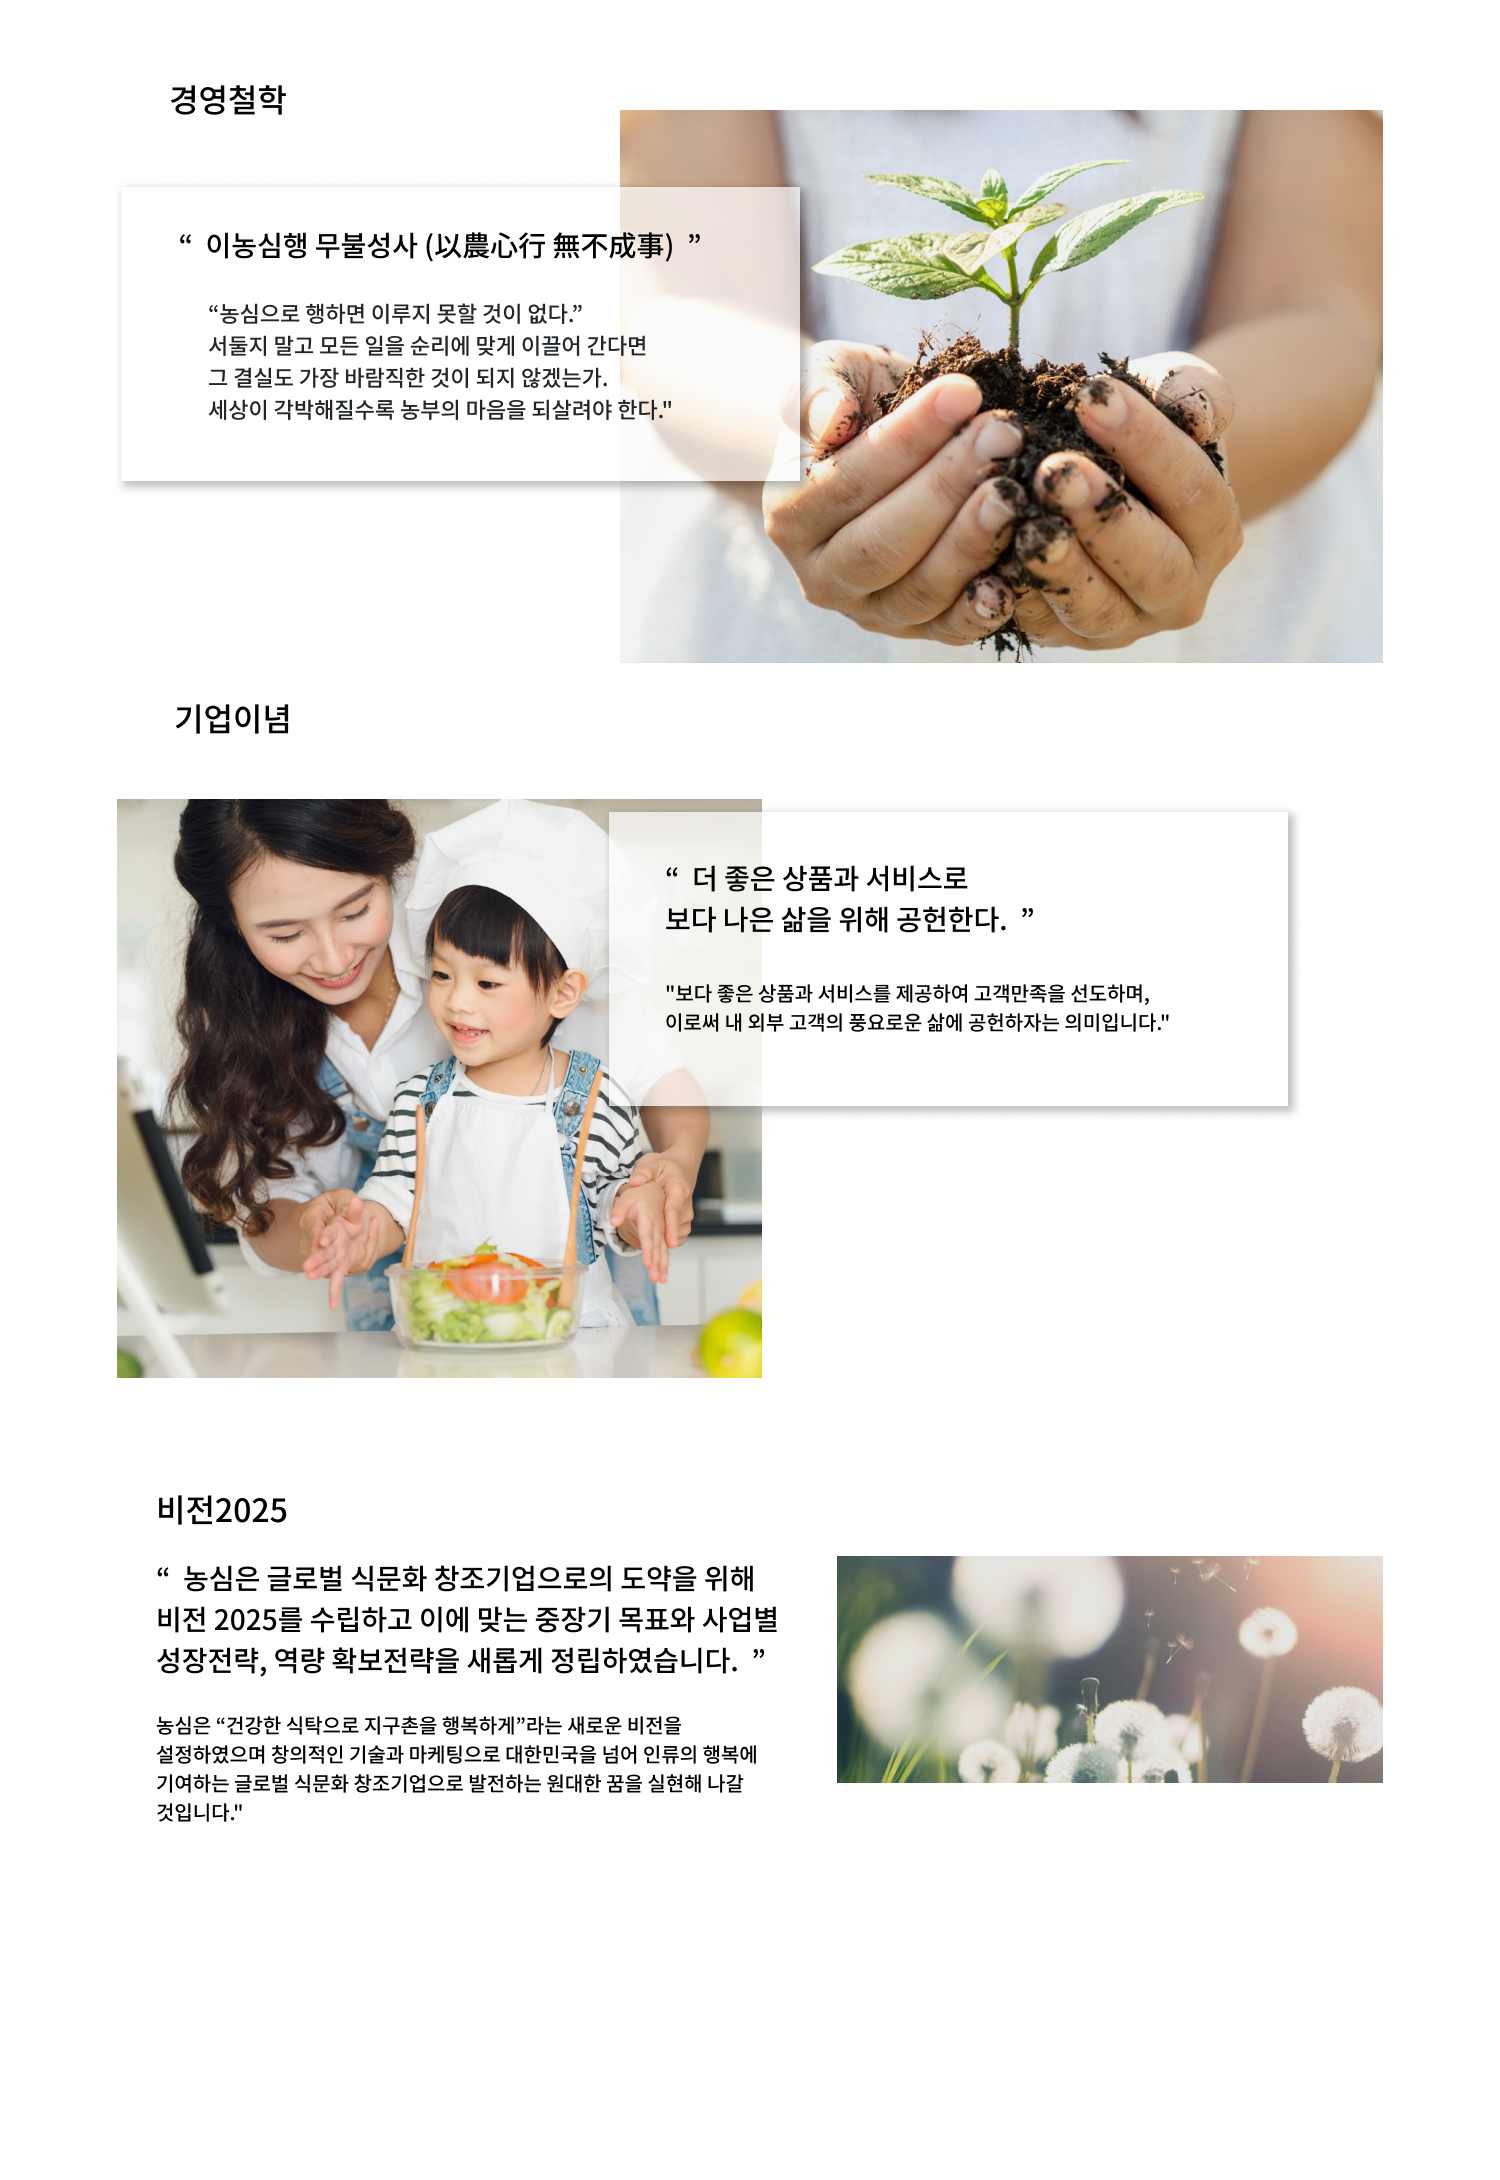
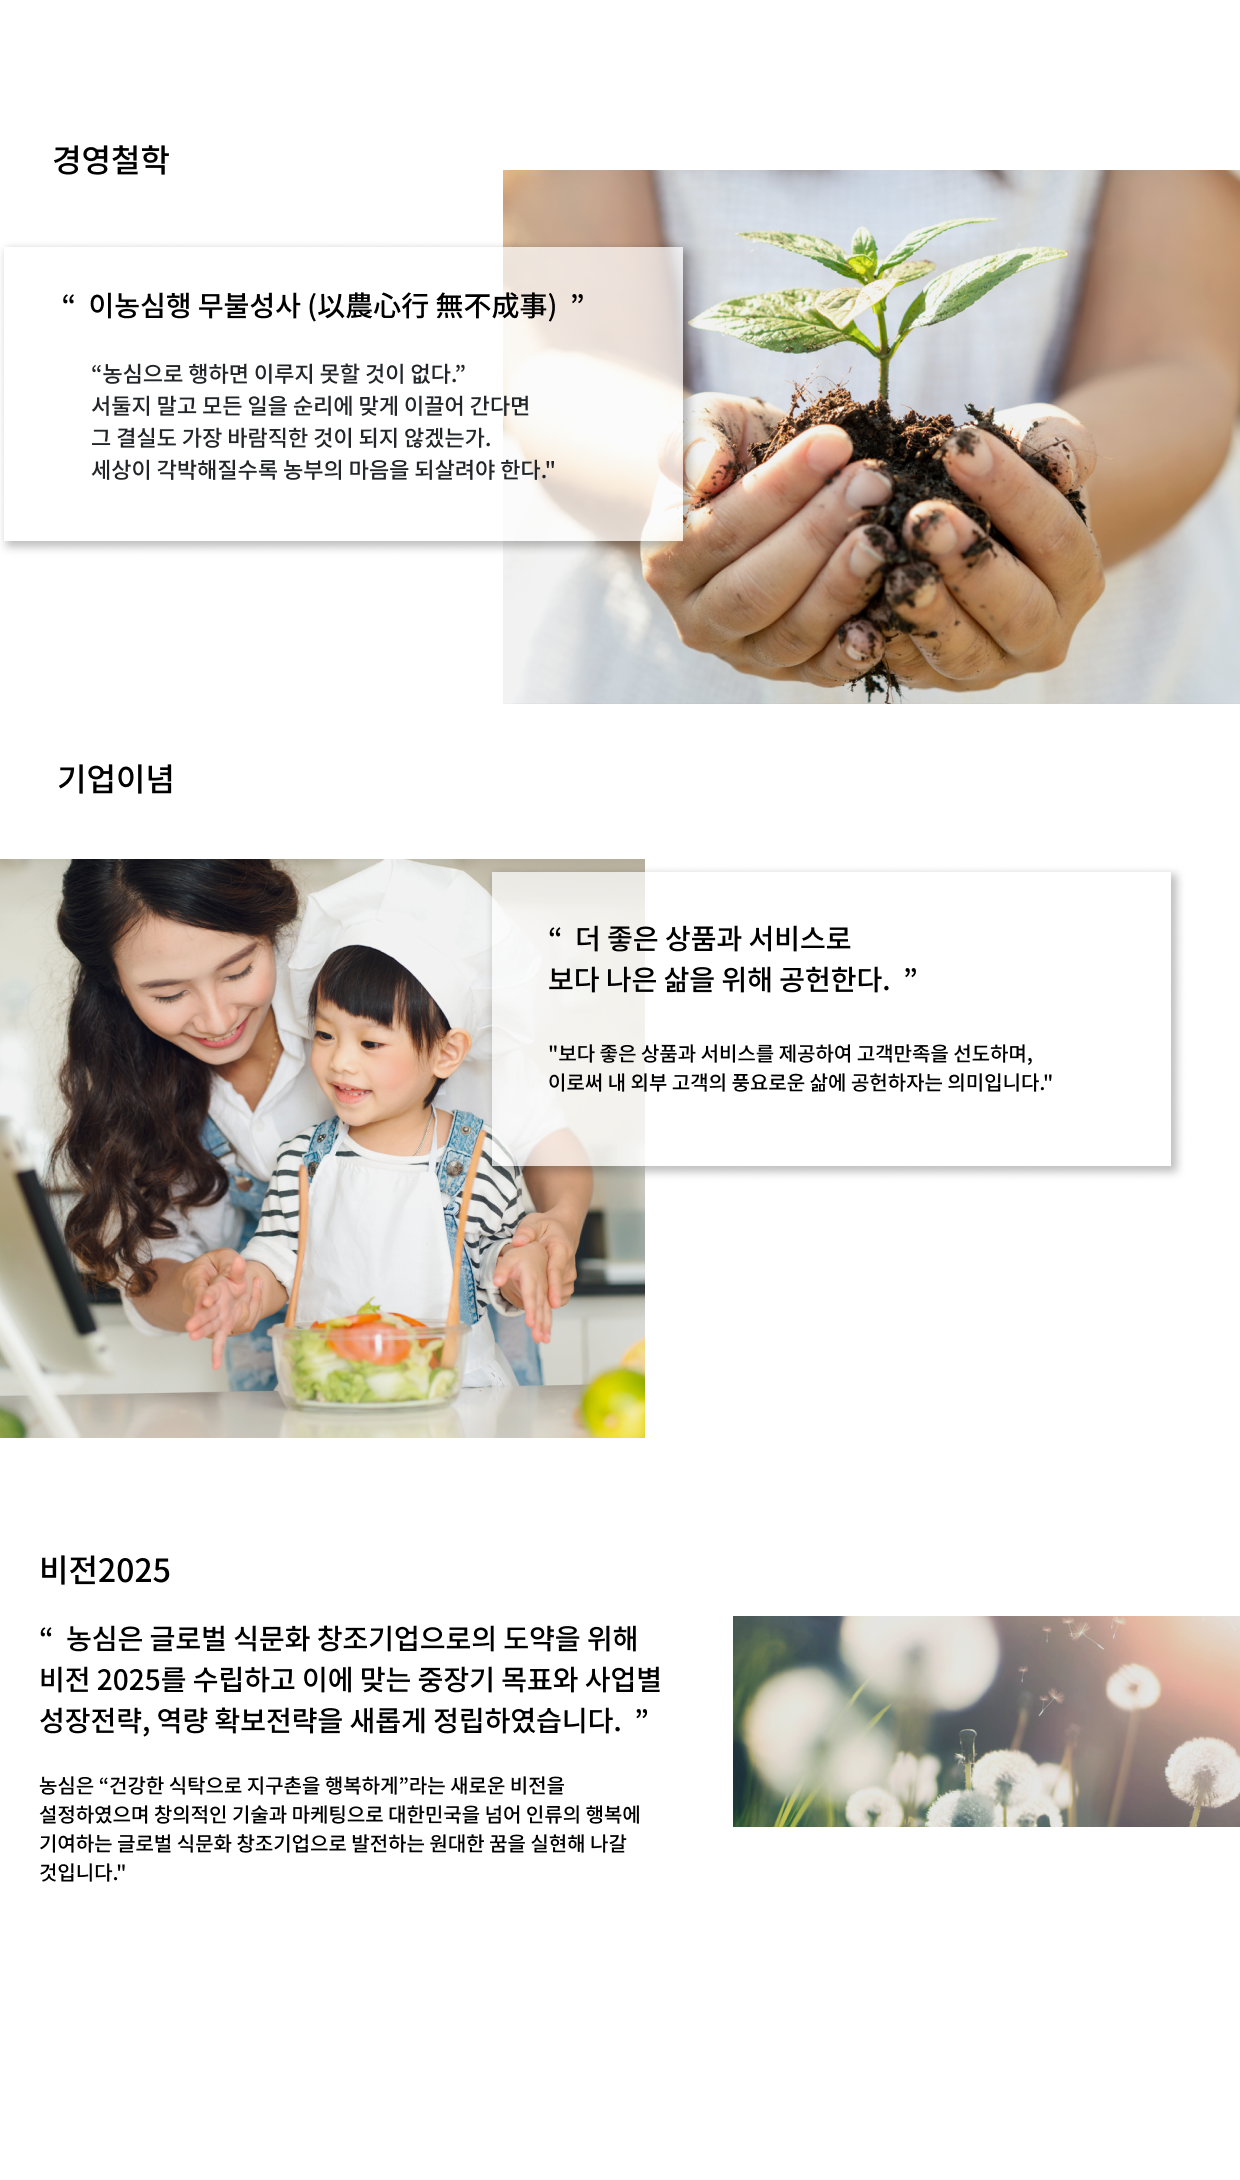
company v7

diff --git a/04company/css/mobile.css b/04company/css/mobile.css
@@ -43,11 +43,46 @@
 
     /* visual */
     .visualWrap{height: 85vh;}
+    .visualWrap .sImg{height: 85vh;min-height: initial;}
+    .visualWrap .bx-wrapper .bx-pager{bottom:10px}
+    .visualWrap .txtBody{text-align: left;transform: translateY(0);}
+    .visualWrap .bx-controls{display: none;}
+
+    /* content */
+    .contents{margin-top: 0;width: 100%;}
+    .contents>ul>li{height: 15vh;width: 50%;order:7;background-position: center;background-size: cover;background-repeat: no-repeat;}
+    .contents>ul>li:nth-child(1){order:1;width: 25%;height: initial;padding: 20px 0;}
+    .contents>ul>li:nth-child(2){display: none;}
+    .contents>ul>li:nth-child(3){width: 100%;height: 250px;}
+    .contents>ul>li:nth-child(4){display: none;}
+    .contents>ul>li:nth-child(5){width: 100%;height: 250px;}
+    .contents>ul>li:nth-child(6){order:2;width: 25%;height: initial;padding: 20px 0;}
+    .contents>ul>li:nth-child(7){order:3;width: 25%;height:initial;padding: 20px 0;margin-top: 0;margin-left: 0;}
+    .contents>ul>li:nth-child(8){width: 100%;height: 250px;margin-top:0;margin-left: 0;}
+    .contents>ul>li:nth-child(9){order:4;width: 25%;height: initial;padding: 20px 0;display: block;}
+
+    .contents .card img{width: 50%;}
 
 
-/* tab */
-.tab{width: 100%;}
-.content{width: 100%;}
+
+/* container */
+.container .section{width:100%;padding: 0 16px;}
+.container .section .ban{flex-wrap:wrap;}
+.container .section .ban li{
+    width: calc( ( 100% - 15px ) / 2);
+    margin-bottom: 20px;
+}
+.container .section .card{padding: 20px 0;}
+
+/* banner */
+.banner{width: 100%;}
+.banner>ul>li{width: 50%;background-position: center;background-size: cover;background-repeat: no-repeat;}
+.banner>ul>li:nth-child(1){height: 250px;width: 100%;}
+.banner>ul>li:nth-child(2){height: 250px;width: 100%;}
+
+.banner>ul>li>p{display: none;}
+
+
 
 /* footer */
 footer{width: 100%;}

diff --git a/04company/css/style_sub.css b/04company/css/style_sub.css
@@ -54,11 +54,12 @@
 .tab li:hover{background: #ED1C24;color:white}
 
 .content{
-    width: 1240px;display: flex;align-items: center;justify-content: center;
+    width: 100%;display: flex;align-items: center;justify-content: center;
     margin: 0 auto;
 }
 .content .tcon2{display: none;}
 .content .tcon3{display: none;}
+.content .tcon4{display: none;}
  
 /* footer */
 footer::before{

diff --git a/04company/sub.html b/04company/sub.html
@@ -48,7 +48,7 @@
         <li>핵심가치</li>
         <li>CI</li>
     </ul>
-    
+
     <div class="content">
         <div class="tcon1">
             <img src="image/sub.png" alt="">
